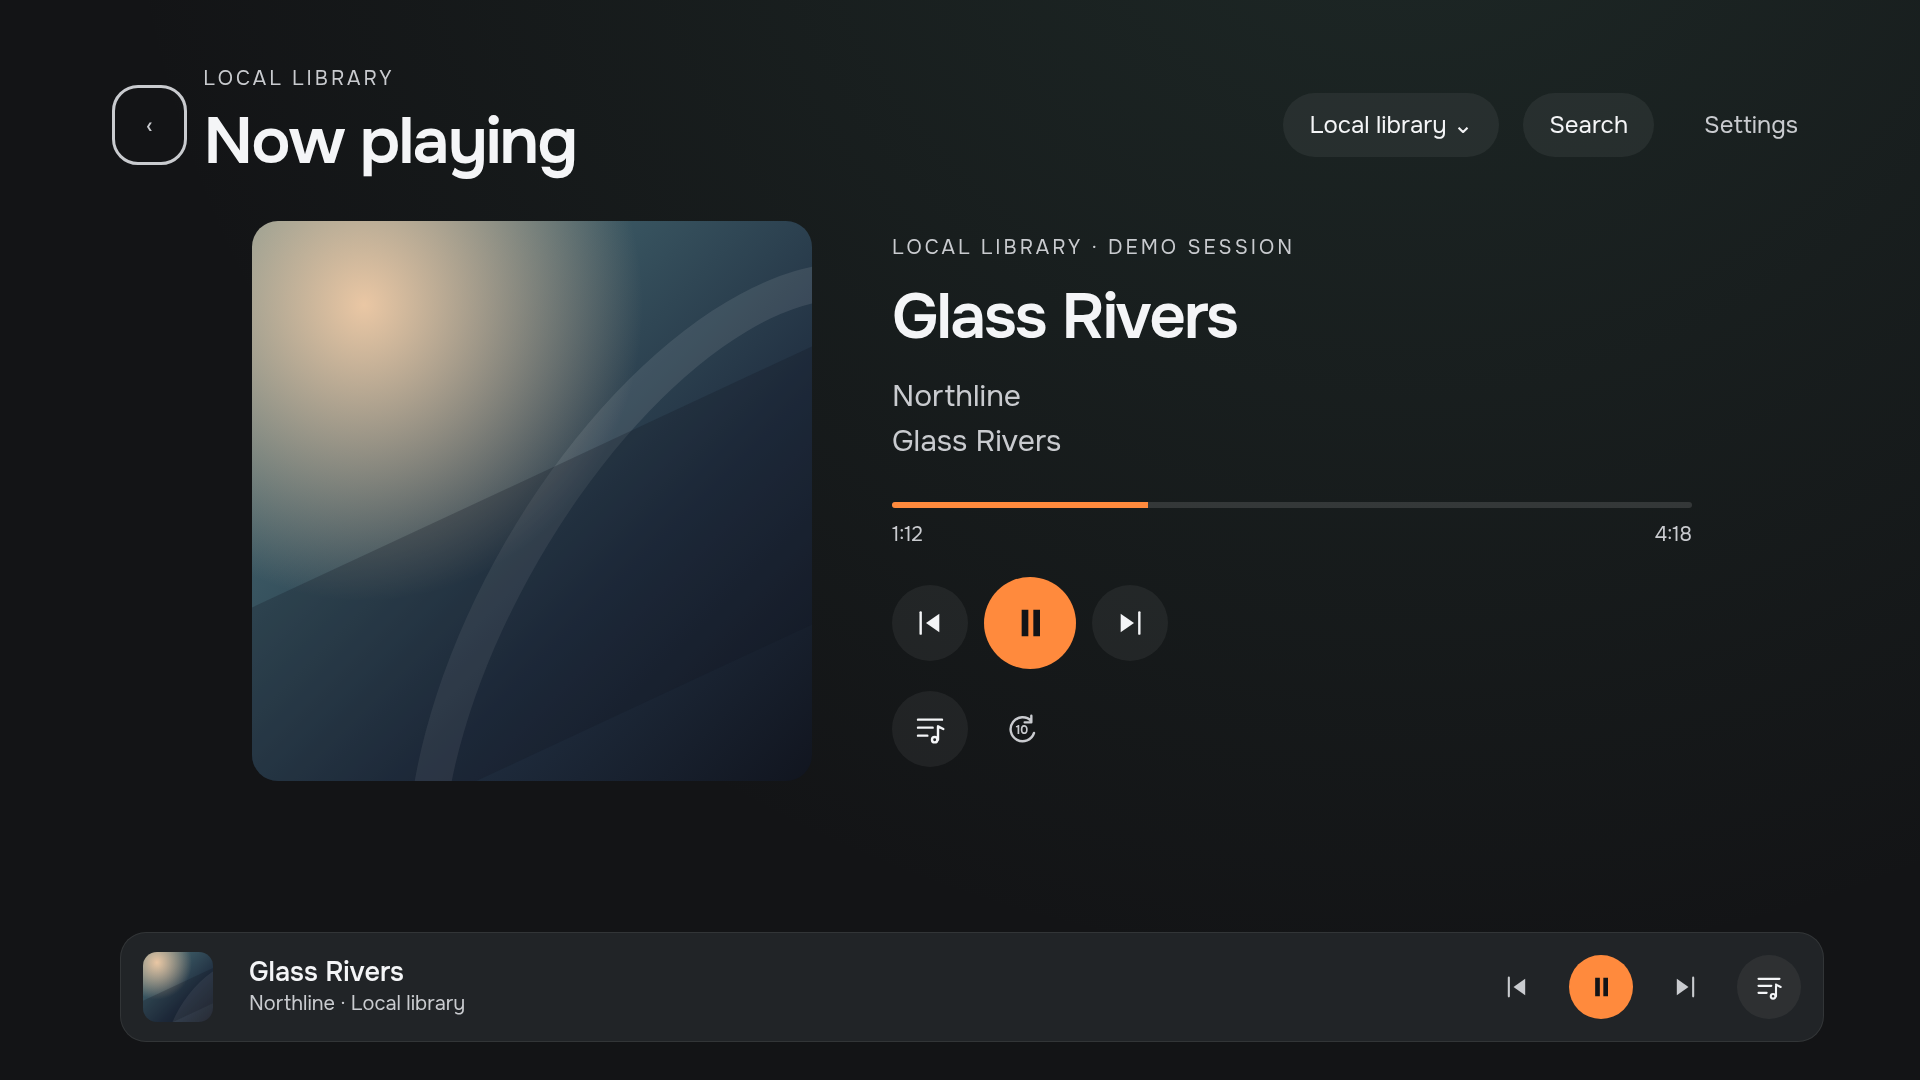
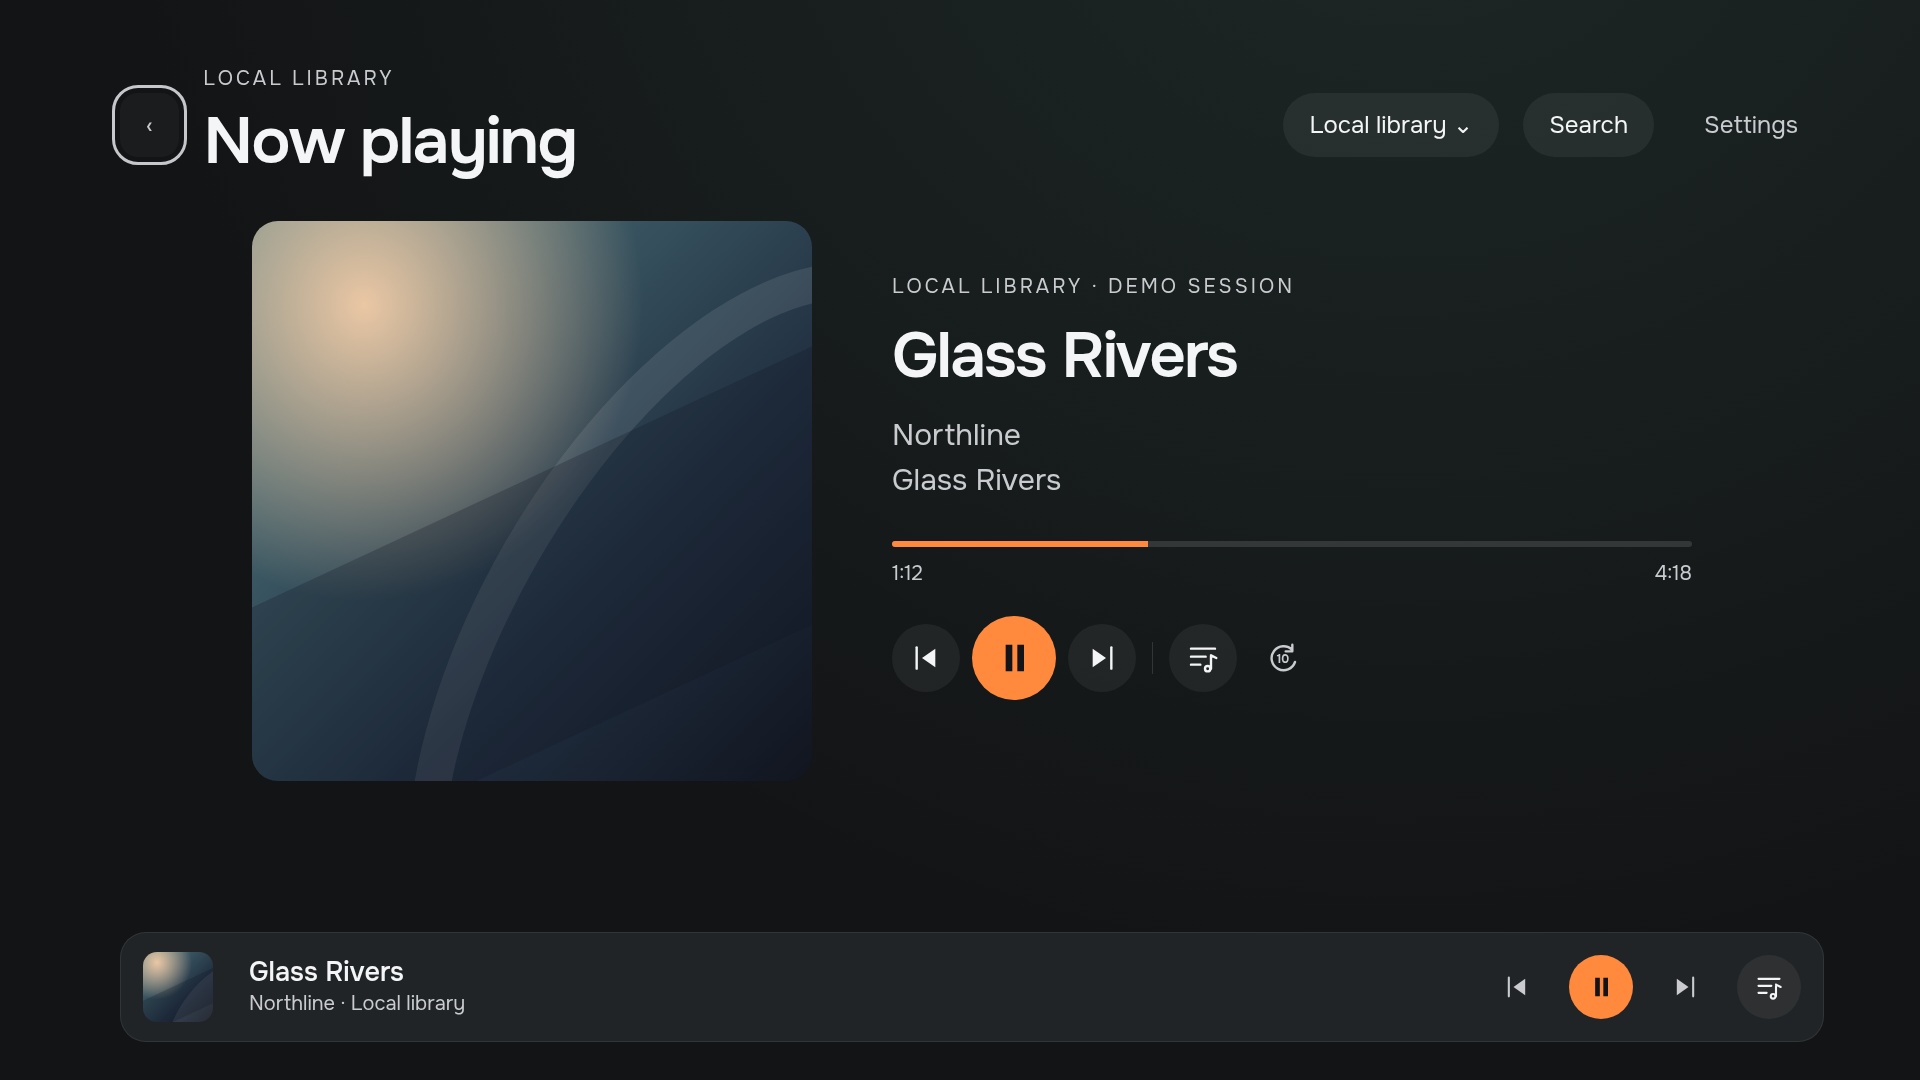
design: align music player controls in one row
Refs #677 and #698. Apply owner visual feedback: group transport, queue/seek and feedback/radio on one horizontal row. Verify eight controls fit and align at 1080p and 4K; preserve focus and accessible labels.

Changed region(s): [[0.4688, 0.2139, 0.875, 0.6722], [0.4688, 0.6722, 0.5, 0.7028]]

diff --git a/docs/design/prototypes/music/music.css b/docs/design/prototypes/music/music.css
@@ -7,9 +7,12 @@
 #player{position:absolute;left:120px;right:96px;bottom:38px;min-height:108px;display:flex;align-items:center;gap:20px;padding:18px 22px;background:#232729e8;border:1px solid #ffffff14;border-radius:26px;backdrop-filter:blur(24px)}#player:empty{display:none}#player .art{width:70px;height:70px;border-radius:14px;margin:0;flex-shrink:0}#player .identity{background:transparent;padding:4px 16px;flex:1}#player p{font-size:20px;color:#c9cbcf}#player button{font-size:23px}#overlay:empty{display:none}.scrim{position:absolute;inset:0;background:#0009;display:flex;align-items:center;justify-content:flex-end}.sheet{width:720px;height:100%;padding:70px 65px;background:#1b1d20;box-shadow:-40px 0 100px #0003;overflow:auto}.sheet h2{font-size:40px;margin-bottom:18px}.sheet>p{font-size:24px;color:#c9cbcf;margin-bottom:25px}.sheet .gap{margin-top:30px}.dialog{width:760px;padding:50px;background:#22252a;border-radius:30px;margin:auto;box-shadow:0 30px 100px #0008}.dialog h2{margin-bottom:18px}.dialog p{font-size:25px;color:#c9cbcf;margin-bottom:32px}.dialog .gap{justify-content:flex-end}#review{position:fixed;bottom:5px;left:20px;right:20px;display:flex;gap:20px;align-items:center;justify-content:space-between;font:12px system-ui;color:#9a9da3;opacity:.8}#review select{font-size:12px;padding:4px;border:1px solid #ffffff22;border-radius:6px;background:#17191d}#review label{display:flex;gap:10px;align-items:center}body.clean #review{display:none}@media(prefers-reduced-motion:reduce){*{animation:none!important;transition:none!important}}
 
 /* Radio design scenes use the same palette and remote focus treatment. */
-.station-grid{display:grid;grid-template-columns:repeat(3,1fr);gap:26px;margin:20px 5px 28px}.station-card{position:relative;min-height:340px;border-radius:26px;overflow:hidden;background:#ffffff08}.station-card>.art{position:absolute;inset:0;width:100%;height:100%;opacity:.35;border-radius:0}.station-copy{position:relative;padding:34px 30px;background:linear-gradient(0deg,#131416e8,transparent)}.station-copy h2{font-size:43px;margin:35px 0 12px}.station-copy p{font-size:23px;color:#c9cbcf;min-height:62px}.station-copy .gap{margin-top:25px}.station-copy button{font-size:22px;padding:15px 22px}.fixture-note{font-size:20px;padding:16px 24px;color:#c9cbcf}.radio-label{font-size:23px;color:#ffb480;margin-top:20px}.feedback{margin-top:24px}.feedback button{font-size:22px;padding:14px 24px}.radio-status{align-items:center}.radio-status .grow{line-height:1.5}.now:has(.feedback){gap:64px;margin-top:10px}.now:has(.feedback)>.art{width:500px;height:500px}.now:has(.feedback) h1{font-size:54px;margin:12px 0}.now:has(.feedback) .timeline{margin:24px 0}.now:has(.feedback) .transport{margin:14px 0}
+.station-grid{display:grid;grid-template-columns:repeat(3,1fr);gap:26px;margin:20px 5px 28px}.station-card{position:relative;min-height:340px;border-radius:26px;overflow:hidden;background:#ffffff08}.station-card>.art{position:absolute;inset:0;width:100%;height:100%;opacity:.35;border-radius:0}.station-copy{position:relative;padding:34px 30px;background:linear-gradient(0deg,#131416e8,transparent)}.station-copy h2{font-size:43px;margin:35px 0 12px}.station-copy p{font-size:23px;color:#c9cbcf;min-height:62px}.station-copy .gap{margin-top:25px}.station-copy button{font-size:22px;padding:15px 22px}.fixture-note{font-size:20px;padding:16px 24px;color:#c9cbcf}.radio-label{font-size:23px;color:#ffb480;margin-top:20px}.feedback{margin-top:24px}.feedback button{font-size:22px;padding:14px 24px}.radio-status{align-items:center}.radio-status .grow{line-height:1.5}.now:has(.radio-label){gap:64px;margin-top:10px}.now:has(.radio-label)>.art{width:500px;height:500px}.now:has(.radio-label) h1{font-size:54px;margin:12px 0}.now:has(.radio-label) .timeline{margin:24px 0}.now:has(.radio-label) .transport{margin:14px 0}
 
 /* Transport uses icons, with focus labels for remote users and accessible names. */
 .icon-button{position:relative;display:inline-flex;align-items:center;justify-content:center;width:76px;height:76px;min-width:76px!important;padding:20px!important;border-radius:50%!important;flex-shrink:0}.icon-button svg{width:32px;height:32px;display:block;overflow:visible}.transport .icon-button.primary{width:92px;height:92px;min-width:92px!important}.transport .icon-button.primary svg{width:40px;height:40px}.icon-button[aria-pressed=true]{color:#ffb480;background:#ff8a3d20}.icon-button[data-tooltip]:focus-visible::after{content:attr(data-tooltip);position:absolute;top:calc(100% + 9px);left:50%;transform:translateX(-50%);z-index:10;white-space:nowrap;font-size:18px;font-weight:450;padding:7px 12px;border-radius:9px;background:#30343b;color:#f4f5f7;pointer-events:none}#player .icon-button{width:64px;height:64px;min-width:64px!important;padding:17px!important}#player .icon-button svg{width:28px;height:28px}#player .icon-button[data-tooltip]:focus-visible::after{top:auto;bottom:calc(100% + 10px)}
 
 .home-music{margin-top:50px}.home-music>h2{margin:25px 0 28px}.home-music-card{position:relative;width:400px;height:225px;border-radius:26px;margin:8px 8px 28px;isolation:isolate}.home-card-open{position:absolute;inset:0;padding:0;border-radius:26px;overflow:hidden;width:100%;height:100%;background:#23282d}.home-card-open>.art{position:absolute;inset:0;width:100%;height:100%;margin:0;border-radius:26px}.home-card-scrim{position:absolute;inset:0;background:linear-gradient(0deg,#090b0ef2,#090b0e80 65%,#090b0e10)}.home-status{position:absolute;top:20px;left:22px;font-size:18px;color:#f4f5f7;padding:5px 11px;background:#111820a6;border-radius:100px}.home-card-copy{position:absolute;left:24px;right:24px;bottom:20px;display:grid;gap:5px;pointer-events:none}.home-card-copy strong{font-size:26px;font-weight:600;white-space:nowrap;overflow:hidden;text-overflow:ellipsis}.home-card-copy>span{font-size:21px;color:#c9cbcf}.home-card-copy small{font-size:17px;color:#b4b8c0;white-space:nowrap;overflow:hidden;text-overflow:ellipsis}.home-card-control{position:absolute;right:18px;top:18px;width:52px;height:52px;min-width:52px!important;padding:14px!important;z-index:2}.home-card-control svg{width:26px;height:26px}.home-fixture{margin-bottom:20px}
+
+/* One remote-navigation row for all player actions. */
+.now .transport{display:flex;flex-wrap:nowrap;gap:12px;align-items:center;margin:28px 0}.control-divider{height:32px;width:1px;flex-shrink:0;background:#ffffff20;margin:0 4px}.now .info{min-width:0}.now .transport .icon-button{width:68px;height:68px;min-width:68px!important;padding:18px!important}.now .transport .icon-button.primary{width:84px;height:84px;min-width:84px!important}.now>.art{flex-shrink:0}

diff --git a/docs/design/prototypes/music/music.js b/docs/design/prototypes/music/music.js
@@ -180,7 +180,7 @@
     let html = '';
     if (s.screen==='home') html=session?homeMusicCard():`<div class="state"><div class="eyebrow">YOUR SPACE</div><h2>Make yourself at home.</h2><p>Your music keeps its place.</p>${button('music','Open music','music','','primary pill')}</div>`;
     else if (s.screen==='player' && session) {
-      html=`<div class="now">${art(session.album)}<div class="info"><div class="eyebrow">${esc(sourceName(session.source))} · ${session.fixture?'Design fixture · No service connected':'Demo session'}</div>${radio?'<div class="radio-label">'+esc(radio.station.title)+' · Endless radio'+(radio.state==='loading'?' · Loading more…':radio.state==='error'?' · Refill unavailable':'')+'</div>':''}<h1>${esc(tracks[session.track][0])}</h1><p>${esc(albums[session.album][1])}</p><p class="muted">${esc(albums[session.album][0])}</p><div class="timeline"><div class="bar"><div class="fill"></div></div><div class="gap"><span>1:12</span><span>${tracks[session.track][1]}</span></div></div><div class="gap transport">${button('previous','Previous','previous')}${button('pause',session.paused?'Play':'Pause','pause','','primary')}${button('next','Next','next')}</div><div class="gap">${button('queue','View queue','queue','','pill')}${button('seek','Seek +10s','seek','','quiet')}</div>${feedbackState()}${session.fixture&&s.feedbackStatus!=='loading'?'<div class="gap feedback">'+button('rating-like',ratings.get(session.source+':'+session.track)==='like'?'Liked':'Like','rating','like','pill')+button('rating-dislike',ratings.get(session.source+':'+session.track)==='dislike'?'Disliked':'Not for me','rating','dislike','pill')+button('track-radio','Track radio','track-menu',session.track,'quiet')+'</div>':''}</div></div>`;
+      html=`<div class="now">${art(session.album)}<div class="info"><div class="eyebrow">${esc(sourceName(session.source))} · ${session.fixture?'Design fixture · No service connected':'Demo session'}</div>${radio?'<div class="radio-label">'+esc(radio.station.title)+' · Endless radio'+(radio.state==='loading'?' · Loading more…':radio.state==='error'?' · Refill unavailable':'')+'</div>':''}<h1>${esc(tracks[session.track][0])}</h1><p>${esc(albums[session.album][1])}</p><p class="muted">${esc(albums[session.album][0])}</p><div class="timeline"><div class="bar"><div class="fill"></div></div><div class="gap"><span>1:12</span><span>${tracks[session.track][1]}</span></div></div><div class="gap transport">${button('previous','Previous','previous')}${button('pause',session.paused?'Play':'Pause','pause','','primary')}${button('next','Next','next')}<span class="control-divider" aria-hidden="true"></span>${button('queue','View queue','queue','','pill')}${button('seek','Seek +10s','seek','','quiet')}${session.fixture&&s.feedbackStatus!=='loading'?'<span class="control-divider" aria-hidden="true"></span>'+button('rating-like',ratings.get(session.source+':'+session.track)==='like'?'Liked':'Like','rating','like','pill')+button('rating-dislike',ratings.get(session.source+':'+session.track)==='dislike'?'Disliked':'Not for me','rating','dislike','pill')+button('track-radio','Track radio','track-menu',session.track,'quiet'):''}</div>${feedbackState()}</div></div>`;
     } else if (s.screen==='queue') {
       html=`${radioQueueNotice()}<div class="section-title"><h2>Up next</h2><span class="small">${queue.length} ${radio?'loaded tracks':'tracks'} · ${esc(sourceName(session?.source || s.source))}</span></div><p class="small">${radio?'This is the loaded part of a continuous station, not its total length.':'Select a track for queue actions.'}</p>${rows(queue,true)}`;
     } else if(s.screen==='recommendations'&&radioFixture()) {

diff --git a/docs/design/prototypes/music/verify.py b/docs/design/prototypes/music/verify.py
@@ -116,6 +116,15 @@ def main():
                 assert page.locator("#" + control + " svg").count() == 1
                 assert page.locator("#" + control).get_attribute("aria-label")
             assert page.locator("#pause").get_attribute("aria-label") == "Pause"
+            for width, height in [(1920, 1080), (3840, 2160)]:
+                page.set_viewport_size({"width": width, "height": height})
+                row = page.locator(".now .transport").bounding_box()
+                buttons = page.locator(".now .transport button").all()
+                assert len(buttons) == 8
+                centers = [control.bounding_box()["y"] + control.bounding_box()["height"] / 2 for control in buttons]
+                assert max(centers) - min(centers) < 2, "Player controls must occupy one horizontal row"
+                assert all(control.bounding_box()["x"] >= row["x"] and control.bounding_box()["x"] + control.bounding_box()["width"] <= row["x"] + row["width"] + 1 for control in buttons), "Controls must fit the information column"
+            page.set_viewport_size({"width": 1920, "height": 1080})
             page.locator("#pause").click()
             assert page.locator("#pause").get_attribute("aria-label") == "Play"
             assert page.locator("#mini-pause").get_attribute("aria-label") == "Play"

diff --git a/changes/added/music-design-prototype.md b/changes/added/music-design-prototype.md
@@ -1,1 +1,1 @@
-- Add an offline music design prototype with synthetic catalogue, search, player, queue, source selection and degraded states, plus 1080p/4K review captures. Include provider-owned personal selections, My Wave/track-radio scenes, pins, feedback and continuous queue loading/retry states, informed by CloudMus. Use accessible icon transport controls and illustrate the Home Continue music card in playing/paused states. Production music integration remains unimplemented and visual acceptance is pending.
+- Add an offline music design prototype with synthetic catalogue, search, player, queue, source selection and degraded states, plus 1080p/4K review captures. Include provider-owned personal selections, My Wave/track-radio scenes, pins, feedback and continuous queue loading/retry states, informed by CloudMus. Use accessible icon transport controls in a single player row and illustrate the Home Continue music card in playing/paused states. Production music integration remains unimplemented and visual acceptance is pending.

diff --git a/docs/design/prototypes/music/README.md b/docs/design/prototypes/music/README.md
@@ -65,6 +65,9 @@ tracks from another local album are added. Next/Previous follow the edited queue
 Transport, queue and player feedback use original inline SVG icons with accessible
 names and focus tooltips; Play/Pause updates its name/icon with session state,
 and feedback exposes `aria-pressed`. No external icon font is loaded. The
+full player keeps transport, queue, seek, feedback and track radio in one
+horizontal row, with separators between groups; the 1080p/4K browser checks
+verify alignment and that all controls fit the information column. The
 `home-card` and `home-card-paused` scenes show a proposed 400×225 Continue card
 matching the current Home row geometry: track/artist, source/station, playing or
 paused status, and a separate icon transport action. Opening the card preserves

diff --git a/docs/design/music-design-brief.md b/docs/design/music-design-brief.md
@@ -61,6 +61,9 @@ words. Keep accessible names, visible keyboard/remote focus and focused-control
 labels; the Play/Pause icon and accessible action name change with confirmed
 state. Like/dislike icons retain distinct selected states. Descriptive navigation,
 station titles and recovery actions keep readable text.
+Place player actions in one horizontal row, grouped by transport, queue/seek and
+feedback/radio, while keeping the Play/Pause action prominent. Do not stack the
+compact icon groups into separate rows at the 1080p/4K target sizes.
 
 The proposed Home music card belongs to the existing Continue row and follows its
 400×225 content-card geometry. Artwork, track and artist identify current music;
